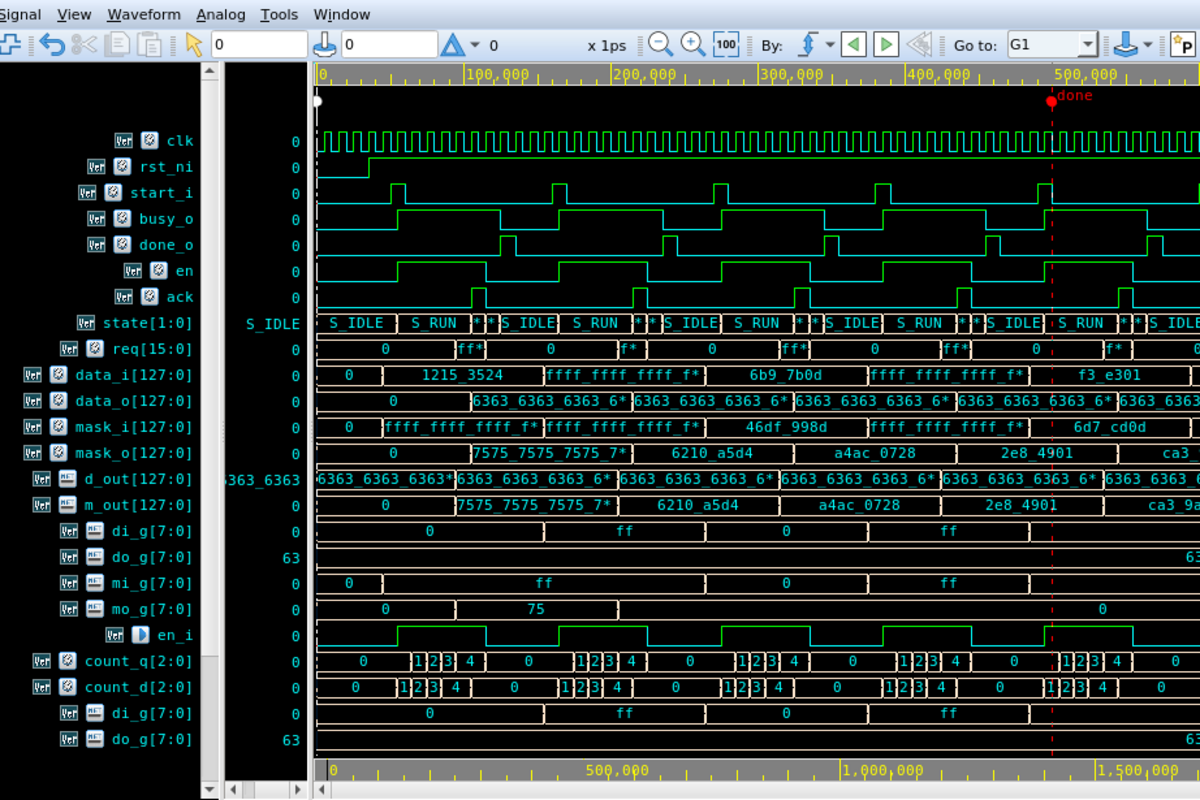
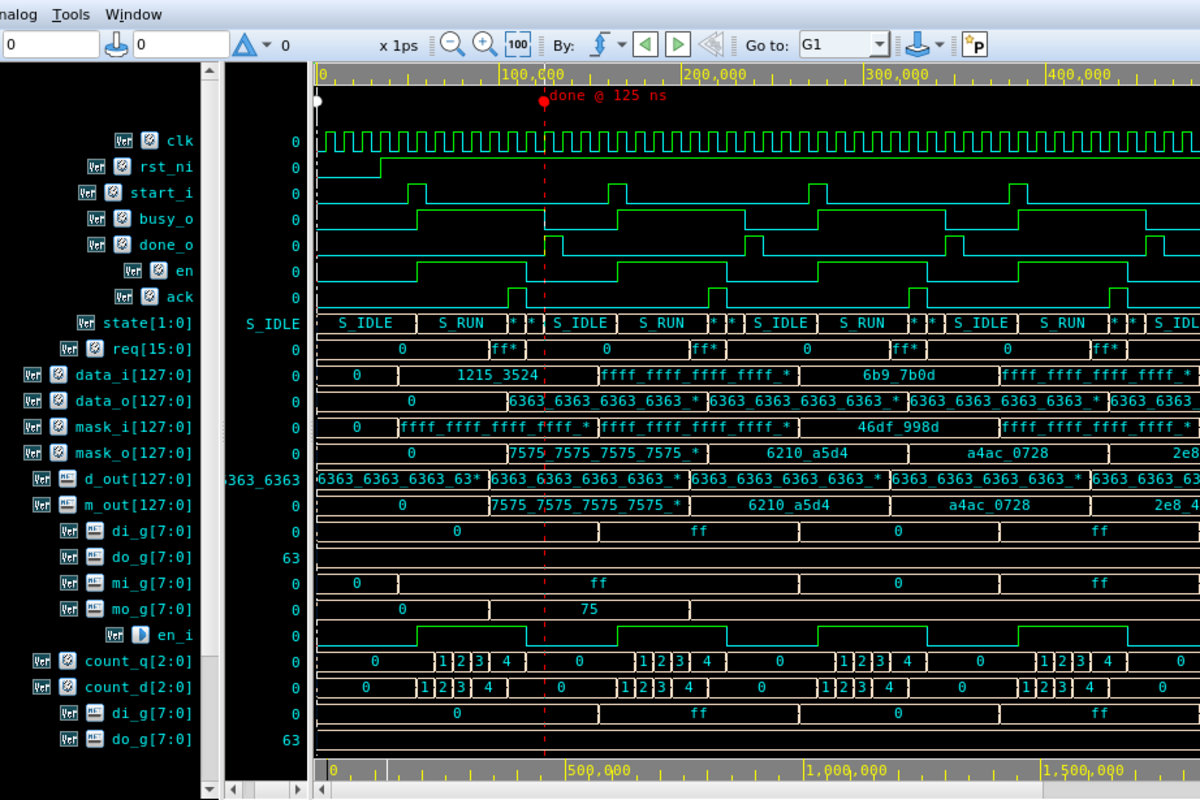
docs(readme): caption the gallery with the run behind it
The gallery now says where the images come from: the AES DOM run the agent
compiled and drove, the signals it selected from the design, the 0-1.5 us
view window, and the marker at 125 ns where done_o first rises (with the
next two pulses at 235 and 345 ns). Those times came from an NPI transition
query on the FSDB, not from reading the picture.

diff --git a/README.zh-CN.md b/README.zh-CN.md
@@ -56,6 +56,10 @@ verdimcp 里没有任何协议名。handshake 类原语只认 role（valid / rea
 |---|---|
 | <img src="docs/evidence/demo/01-waveform.png" width="430"> | <img src="docs/evidence/demo/02-annotated.png" width="430"> |
 | <img src="docs/evidence/demo/03-aes-subbytes16.png" width="430"> | <img src="docs/evidence/demo/04-aes-sbox-array.png" width="430"> |
+两张波形图来自同一次由 agent 自己编译、自己驱动的仿真：AES DOM 设计上的 `tb_subbytes16`，120 次
+SubBytes，5.6 us 仿真时间。它打开 FSDB，按设计结构挑了握手信号（`start_i` / `busy_o` / `done_o` / `en` /
+`ack`）、FSM 状态、128 位 data/mask 总线，以及每个 S-Box 的中间量，然后把视图设到 0–1.5 us。第二张在
+125 ns 处放了 marker，那是 `done_o` 第一次拉高的时刻，之后是 235 ns 和 345 ns。
 
 ## 工具
 

diff --git a/README.md b/README.md
@@ -67,6 +67,11 @@ last) and signal paths. Protocol rules are text in skills.
 |---|---|
 | <img src="docs/evidence/demo/01-waveform.png" width="430"> | <img src="docs/evidence/demo/02-annotated.png" width="430"> |
 | <img src="docs/evidence/demo/03-aes-subbytes16.png" width="430"> | <img src="docs/evidence/demo/04-aes-sbox-array.png" width="430"> |
+Both waveform views come from one run the agent built and drove: `tb_subbytes16` on the AES DOM design,
+120 SubBytes evaluations, 5.6 us of simulated time. It opened the FSDB, picked the handshake
+(`start_i` / `busy_o` / `done_o` / `en` / `ack`), the FSM state, the 128-bit data and mask buses, and the
+per-S-Box intermediates, then set the view to 0-1.5 us. In the second view a marker sits at 125 ns, where
+`done_o` first rises; the next pulses are at 235 ns and 345 ns.
 
 ## Tools
 
